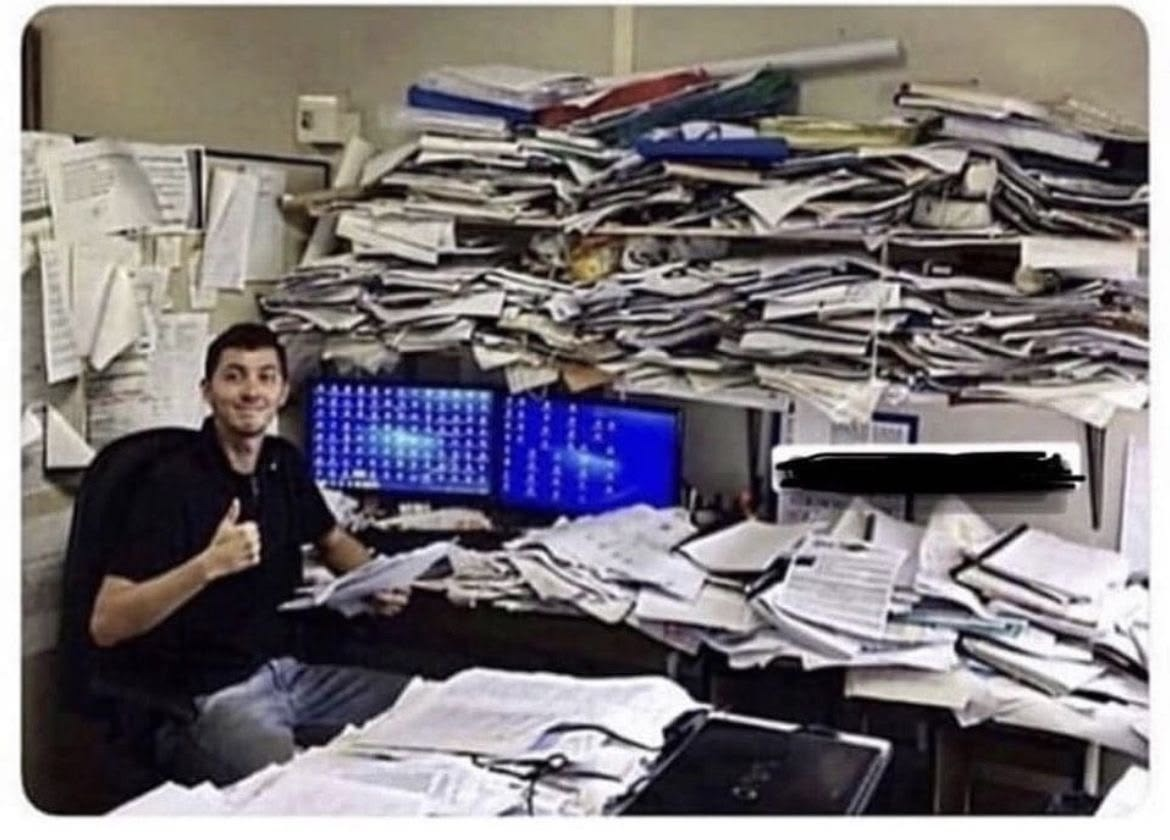
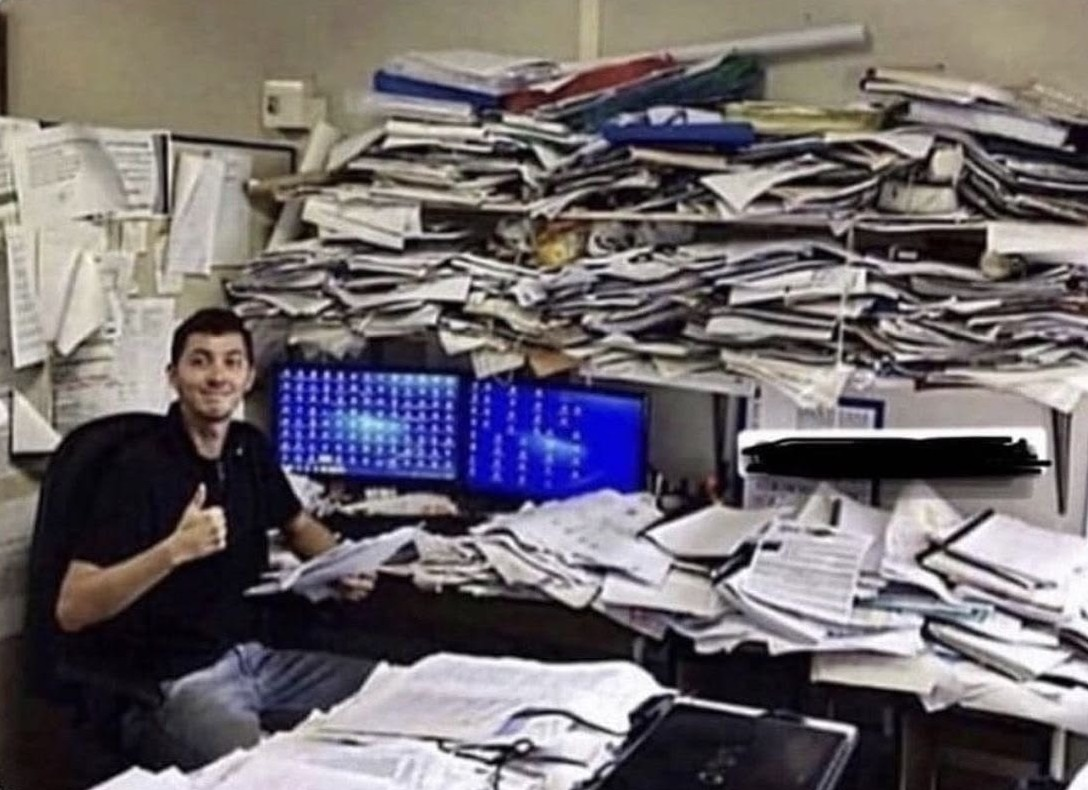
just minor updatess

diff --git a/hooks/useActiveSection.ts b/hooks/useActiveSection.ts
@@ -1,32 +1,79 @@
 "use client";
 
-import { useState, useEffect } from "react";
+import { useState, useEffect, useRef, useCallback } from "react";
 
+// Distance (px) from the top of the viewport treated as the "active" line —
+// roughly the fixed navbar's height plus a small buffer, so a section
+// becomes active as soon as it clears the navbar.
+const ACTIVE_LINE_OFFSET = 120;
+
+/**
+ * Scroll-position based scrollspy.
+ *
+ * We deliberately don't use IntersectionObserver here. This site pins Hero
+ * with `position: sticky` and slides CaseStudies over it via a Framer
+ * Motion transform (see HeroSlideTransition) — so Hero's bounding box stays
+ * ~100% visible to an observer for the entire pinned scroll range, even
+ * after CaseStudies has visually covered it. An observer only re-fires when
+ * an element's intersection ratio *crosses* its threshold, and Hero's ratio
+ * never dips below 0.4 during that pin, so it never reports itself as
+ * "left" — the nav gets stuck on the first section until the next one
+ * happens to cross the threshold on its own.
+ *
+ * Checking real geometry (getBoundingClientRect) on every scroll frame
+ * sidesteps that: it reflects whatever is actually painted right now,
+ * including transform/sticky-driven positions, so the active id updates
+ * continuously and correctly no matter how a section is animated in.
+ */
 export function useActiveSection(sectionIds: string[]): string {
   const [activeSection, setActiveSection] = useState<string>("");
+  const tickingRef = useRef(false);
+  const idsRef = useRef(sectionIds);
+  idsRef.current = sectionIds;
+
+  const measure = useCallback(() => {
+    const ids = idsRef.current;
+    let current = "";
+
+    for (const id of ids) {
+      const el = document.getElementById(id);
+      if (!el) continue;
+      if (el.getBoundingClientRect().top <= ACTIVE_LINE_OFFSET) {
+        current = id;
+      }
+    }
+
+    // Guard against short last sections that can never scroll their top
+    // past the offset line — force it active once we hit page bottom.
+    const atBottom =
+      window.innerHeight + Math.ceil(window.scrollY) >=
+      document.documentElement.scrollHeight - 2;
+    if (atBottom && ids.length > 0) {
+      current = ids[ids.length - 1];
+    }
+
+    setActiveSection((prev) => (prev === current ? prev : current));
+  }, []);
 
   useEffect(() => {
-    const observers: IntersectionObserver[] = [];
+    const onScrollOrResize = () => {
+      if (tickingRef.current) return;
+      tickingRef.current = true;
+      requestAnimationFrame(() => {
+        measure();
+        tickingRef.current = false;
+      });
+    };
 
-    sectionIds.forEach((id) => {
-      const el = document.getElementById(id);
-      if (!el) return;
+    measure(); // correct section immediately, e.g. on a mid-page refresh
+    window.addEventListener("scroll", onScrollOrResize, { passive: true });
+    window.addEventListener("resize", onScrollOrResize, { passive: true });
 
-      const observer = new IntersectionObserver(
-        ([entry]) => {
-          if (entry.isIntersecting) {
-            setActiveSection(id);
-          }
-        },
-        { threshold: 0.4 }
-      );
-
-      observer.observe(el);
-      observers.push(observer);
-    });
-
-    return () => observers.forEach((obs) => obs.disconnect());
-  }, [sectionIds]);
+    return () => {
+      window.removeEventListener("scroll", onScrollOrResize);
+      window.removeEventListener("resize", onScrollOrResize);
+    };
+  }, [measure]);
 
   return activeSection;
 }

diff --git a/components/sections/Testimonials.tsx b/components/sections/Testimonials.tsx
@@ -37,7 +37,7 @@ const TESTIMONIALS: Testimonial[] = [
   {
     id: "bharat-aarti",
     quote:
-      "\u201CDzen Svayatta didn't just automate our operations they gave us complete visibility into how our business runs. What once took constant follow ups and manual coordination is now streamlined, transparent and built to scale. Their approach has fundamentally changed how we operate.\u201D",
+      "\u201CThe biggest change is that we don't have to think about the little things anymore. Everything just works the way it should.\u201D",
     author: "Mr. Bharat Boridkar",
     role: "Senior Accountant",
     company: "Aarti Enterprise",
@@ -98,7 +98,6 @@ function markOf(company: string) {
     .toUpperCase();
 }
 
-
 export function Testimonials() {
   const [index, setIndex] = useState(0);
   const reduce = useReducedMotion();
@@ -141,8 +140,11 @@ export function Testimonials() {
             Don&apos;t Take Our Word For It
           </h2>
 
-          {/* Quote block – text with ScrollReveal, marks fade in together */}
-          <div ref={quoteContainerRef} className="min-h-[260px] sm:min-h-[220px] flex items-center justify-center max-w-[1700px] px-4">
+          {/* Quote block – increased fixed height to prevent layout shift */}
+          <div
+            ref={quoteContainerRef}
+            className="h-[320px] sm:h-[280px] overflow-hidden flex items-center justify-center max-w-[1700px] px-4"
+          >
             <AnimatePresence mode="wait">
               <div key={active.id} className="flex items-center justify-center text-center">
                 {startsWithQuote && (

diff --git a/components/layout/Navbar.tsx b/components/layout/Navbar.tsx
@@ -19,7 +19,12 @@ import { useScrolled } from "@/hooks/useScrolled";
 import { AboutOverlay } from "@/components/sections/AboutOverlay";
 import { NAV_LINKS, PROJECTS_LINK } from "@/lib/data";
 
-const SECTION_IDS = ["hero", "areas", "capabilities", "cases", "contact"];
+// Derived from NAV_LINKS so the tracked ids can never drift out of sync
+// with the hrefs actually rendered below (previously hand-typed here as
+// ["hero", "areas", "capabilities", "cases", "contact"] — "areas" didn't
+// match any element's id, it's "target-areas", so that link never lit up
+// and the observer for it silently never attached).
+const SECTION_IDS = NAV_LINKS.map(({ href }) => href.replace("#", ""));
 const EASE = [0.22, 1, 0.36, 1] as const;
 
 const BLUE = {